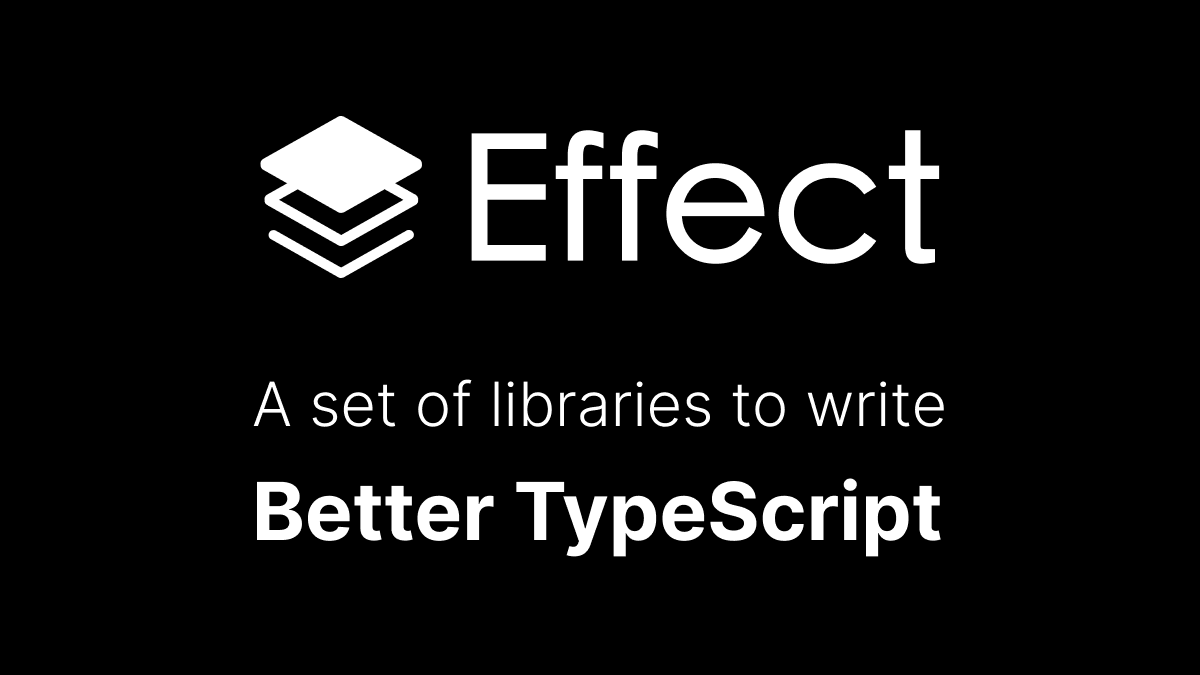
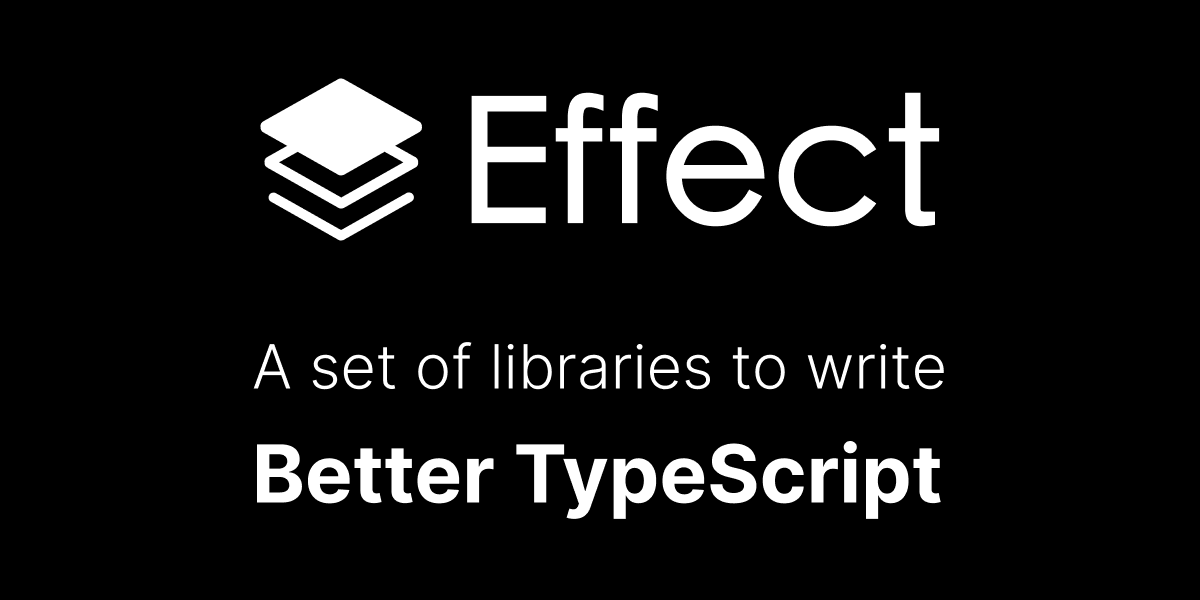
fix images

diff --git a/pages/_document.tsx b/pages/_document.tsx
@@ -15,7 +15,7 @@ export default function Document() {
         <meta
           name="og:image"
           // NOTE og:image must be an absolute url
-          content={`${deployUrl}/twitter.png`}
+          content={`${deployUrl}/og.png`}
         />
         <meta name="twitter:title" content={metaTitle} />
         <meta name="twitter:description" content={metaDescription} />
